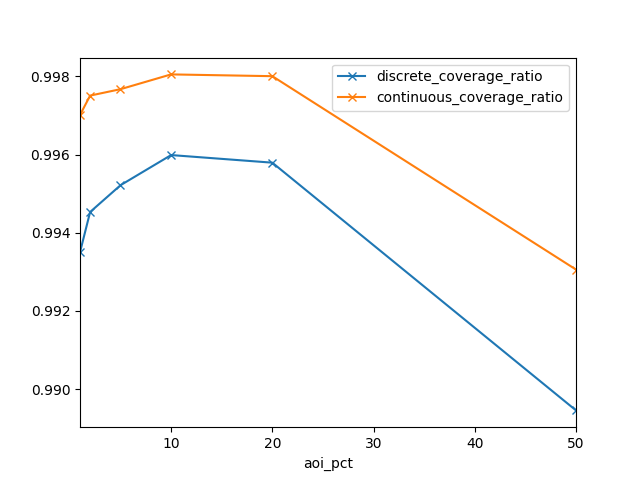
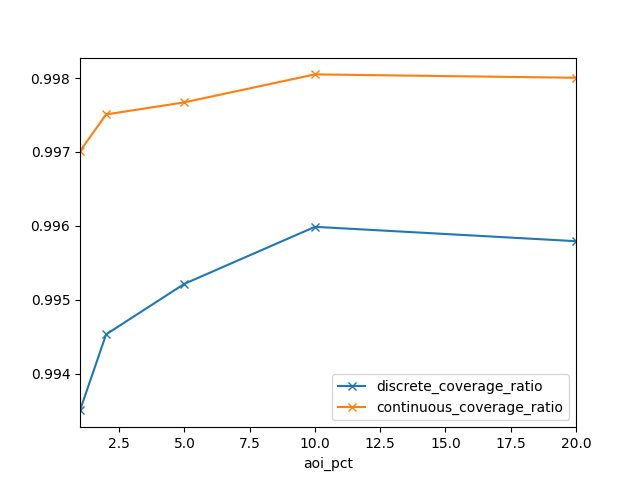
update new result

diff --git a/scripts/debug.py b/scripts/debug.py
@@ -4,26 +4,17 @@ import matplotlib.pyplot as plt
 fig, ax = plt.subplots()
 
 
-# a = [[123.24276063568635209, 43.999696834302206128], [123.11137880244130827, 43.846245587998637916], [123.11534860523212842, 43.844464991884088079]]
-# b = [[123.24276063568635209, 43.999696834302206128], [123.11534860523212842, 43.844464991884088079], [123.119839946937077, 43.842463317383668198]]
-# c = [[123.24276063568635209, 43.999696834302206128], [123.119839946937077, 43.842463317383668198], [123.21161920104637488, 43.827044461485314741]]
-# d = [[123.24276063568635209, 43.999696834302206128], [123.21161920104637488, 43.827044461485314741], [123.27478604286849873, 43.985296566912076344]]
-
-# a = [[122.93557336889436726, 44.138149708652690606], [122.92871332279544561, 44.130461009571533282], [122.92359686148880371, 44.114731411569344743], [122.94240025979178199, 44.106828152025194356], [122.94646279429643698, 44.119509534624519631], [122.95158859092835257, 44.135490567552153607]]
-# b = [[122.94240025979178199, 44.106828152025194356], [122.94646279429643698, 44.119509534624519631], [122.95158859092835257, 44.135490567552153607]]
-
-# a = [[122.2025340698196203, 45.109333399013983978], [119.45604105466311751, 44.064639136904759198], [122.33460337408686769, 45.082009999476163387], [122.6026600000000002, 45.036777000000000726], [122.60437887223351083, 45.041894459337022738]]
+a = [[125.31422421466177752, 42.048886485277520819], [125.31422633739619243, 42.048879076672449173], [125.31426773378700545, 42.048879076678062461]]
 
 
+plot_polygons = lambda *args: plot_polygons_(*args, annotate=True)
 
-# plot_polygons = lambda *args: plot_polygons_(*args, annotate=True)
-
-# plot_polygons(ax, [a],'red', 0.5)
+plot_polygons(ax, [a],'red', 0.5)
 # # plot_polygons(ax, [b],'green', 0.5)
 # # plot_polygons(ax, [c, d],'blue', 0.5)
 
-# plt.show()
-
+plt.show()
+exit()
 
 def line_intersection(line1, line2):
     xdiff = (line1[0][0] - line1[1][0], line2[0][0] - line2[1][0])

diff --git a/scripts/run.py b/scripts/run.py
@@ -82,7 +82,7 @@ def plot_continuous_query(ax, report):
 
     print(len(result_offcuts))
     plot_polygons(ax, possible_offcuts, 'blue', alpha=1)
-    plot_polygons(ax, result_offcuts, 'red', alpha=0.7)
+    plot_polygons(ax, result_offcuts, ['red', 'yellow', 'green', 'purple', 'k'], alpha=0.7)
     plot_polygons(ax, aoi_offcuts, 'none')
 
 def show(plot):
@@ -100,7 +100,7 @@ def main():
 
     config = {
         'delta': [0.02],
-        'aoi_ratio': [0.003],
+        'aoi_ratio': [0.05],
         'n_aois': [1],
         'archive': [15000],
     }
@@ -110,7 +110,7 @@ def main():
     query_result_path = query_dir(['{}.json'.format(get_tag({k: v[0] for k, v in config.items()}))])
     reports = json.load(open(query_result_path, 'r'))
 
-    show(lambda ax: plot_discrete_query(ax, reports['discrete'][0]))
+    # show(lambda ax: plot_discrete_query(ax, reports['discrete'][0]))
     show(lambda ax: plot_continuous_query(ax, reports['continuous'][0]))
 
 

diff --git a/scripts/plot_summary.py b/scripts/plot_summary.py
@@ -17,8 +17,7 @@ def plot_summary(var_name, reports):
         df['aoi_pct'] = df['aoi_ratio'] * 100
         del df['aoi_ratio']
         var_name = 'aoi_pct'
-
-    #df = df[df['aoi_ratio'] < 50]
+        df = df[df['aoi_pct'] < 50]
 
     for y_name in get_y_names(df.columns):
         if y_name not in [var_name, 'delta']:

diff --git a/analysis/experiment/README.md b/analysis/experiment/README.md
@@ -126,7 +126,7 @@ Number of scenes grow linearly as the ratio increases. t1 cost O(nmlogm) time, w
 
 However, in Exp4, it didn't grow linearly. The reason is, in fact, the previous algorithm cost O(nmlogM) time, where M is the number of cell in the aoi. Even though m did not change with the aoi ratio too much, M changes rapidly. This leads to non-linearly increase of time.
 
-# Exp5 (26/10/2017)
+# Exp6 (26/10/2017)
 ## Notes
 1. Fix t1 algorithm, make it linearly increase with aoi-ratio
 2. Add continuous solver, which shows better performance.
@@ -147,3 +147,78 @@ However, in Exp4, it didn't grow linearly. The reason is, in fact, the previous 
 t1 - aoi ratio figure shows t1 of discrete algorithm linearly increases with aoi ratio now.
 
 The results above shows the continuous solver is faster than the discrete solver, and gives lower price.
+
+
+# Exp7 (30/10/2017)
+## Notes
+1. Modify intersection of cell set, use set_intersection, which make discrete t2 faster
+
+## Results
+|Term |Value |
+|:-|:-|
+|aoi ratio| 1%, 2%, 5%, 10%, 20% |
+|delta| 0.01 |
+|number of aoi|25|
+|size of archive| 15000 |
+|t2 - aoi ratio|![](7/t2-aoi_pct.png)|
+
+## Comments
+This improve discrete t2 about 2x faster
+
+
+# Exp8 (30/10/2017)
+## Notes
+1. check whether the origin polygon intersects before calculate the difference
+
+## Results
+|Term |Value |
+|:-|:-|
+|aoi ratio| 1%, 2%, 5%, 10%, 20% |
+|delta| 0.01 |
+|number of aoi|25|
+|size of archive| 15000 |
+|t2 - aoi ratio|![](8/t2-aoi_pct.png)|
+
+## Comments
+This make discrete t2 about 10x faster and continuous t2 about 5x faster.
+
+# Exp9 (31/10/2017)
+## Notes
+1. an overall run based on Exp8
+
+## Results
+
+|Term |Value |
+|:-|:-|
+|aoi ratio| 5%|
+|delta| 0.005, 0.01, 0.015, 0.02, 0.025|
+|number of aoi|25|
+|size of archive| 15000 |
+|t1 - aoi ratio|![](9/t1-delta.png)|
+|t2 - aoi ratio|![](9/t2-delta.png)|
+|price - aoi ratio|![](9/price-delta.png)|
+
+---
+
+|Term |Value |
+|:-|:-|
+|aoi ratio| 1%, 2%, 5%, 10%, 20% |
+|delta| 0.01 |
+|number of aoi|25|
+|size of archive| 15000 |
+|t1 - aoi ratio|![](9/t1-aoi_pct.png)|
+|t2 - aoi ratio|![](9/t2-aoi_pct.png)|
+|price - aoi ratio|![](9/price-aoi_pct.png)|
+
+---
+
+|Term |Value |
+|:-|:-|
+|aoi ratio| 5%|
+|delta| 0.01 |
+|number of aoi|25|
+|size of archive| 10000, 15000, 20000, 50000, 75000, 100000 |
+|t1 - aoi ratio|![](9/t1-archive.png)|
+|t2 - aoi ratio|![](9/t2-archive.png)|
+|price - aoi ratio|![](9/price-archive.png)|
+
